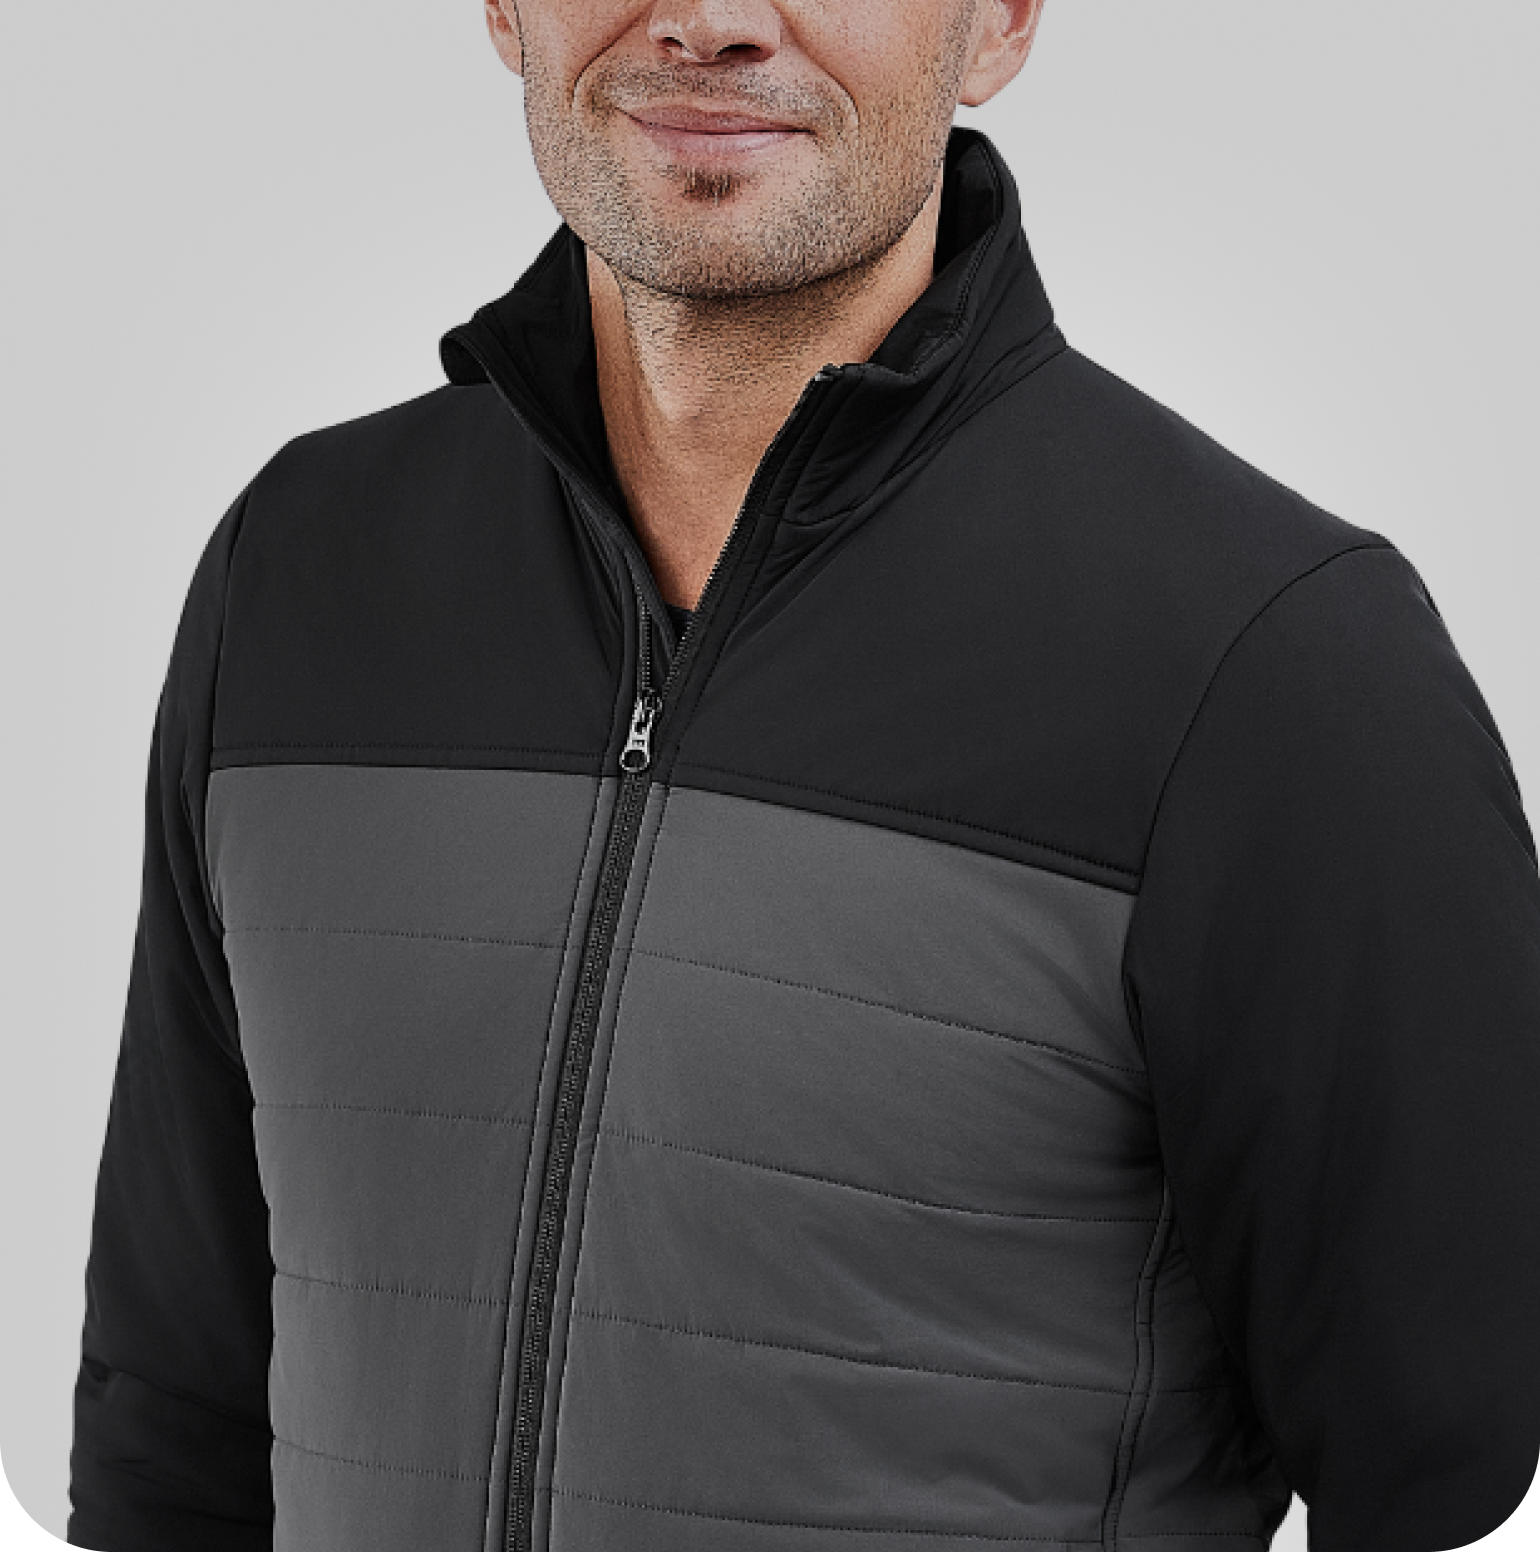
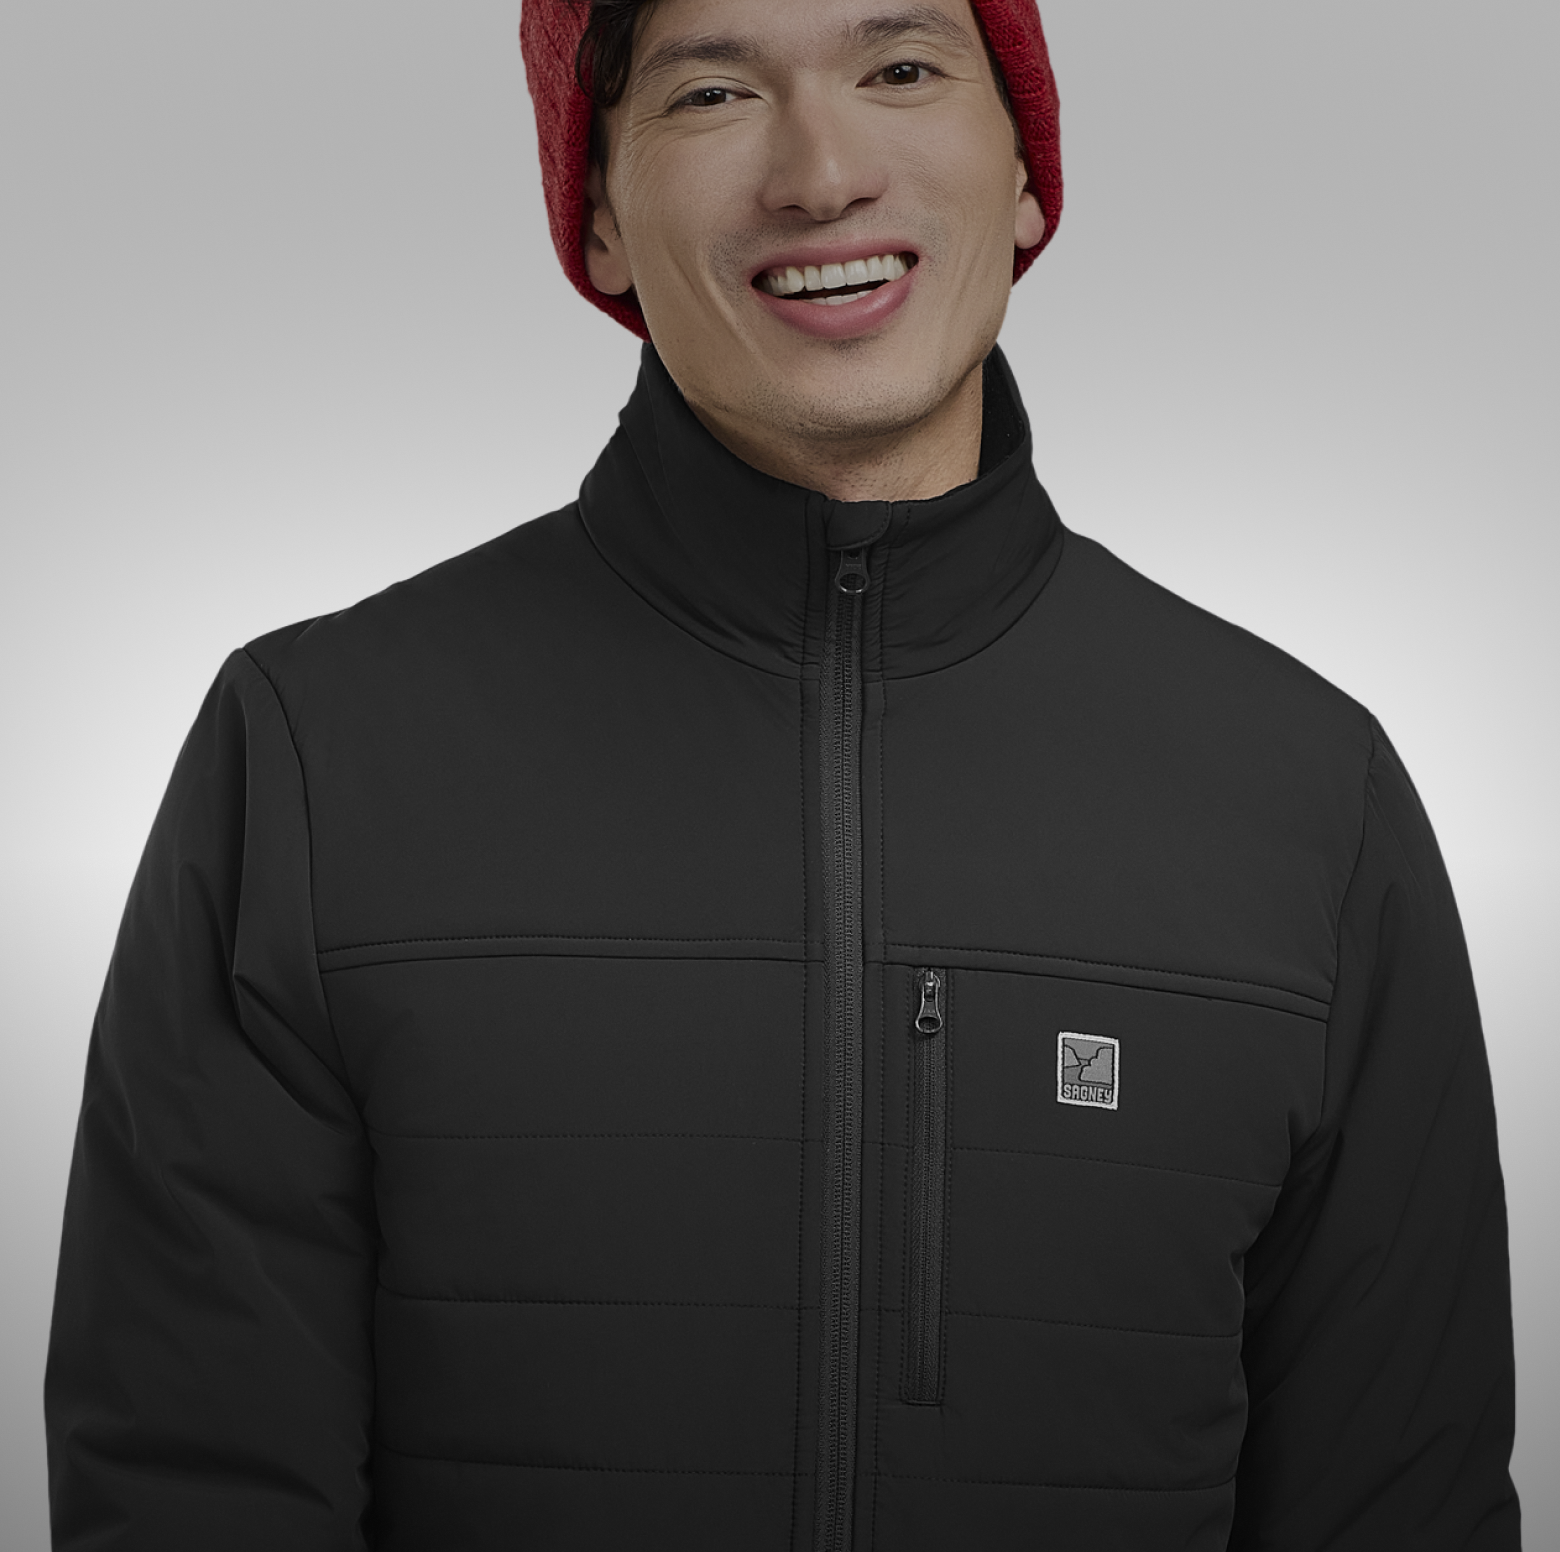
real product data added

diff --git a/app/Utils/brandsData.tsx b/app/Utils/brandsData.tsx
@@ -6,8 +6,8 @@ const brandsData = [
 		products: [
 			{
 				name: {
-					en: "Puffer Jacket",
-					fr: "Puffer Jacket(fr)",
+					en: "Heated jacket",
+					fr: "Manteau chauffant",
 				},
 				productImageUrl: {
 					men: require("../../assets/images/sagney-puffer-jacket-men.png"),
@@ -20,16 +20,30 @@ const brandsData = [
 			},
 			{
 				name: {
-					en: "Puffer Vest",
-					fr: "Puffer Vest(fr)",
+					en: "Heated vest",
+					fr: "Veste chauffante",
 				},
 				productImageUrl: {
-					men: require("../../assets/images/sagney-puffer-jacket-men.png"),
-					women: require("../../assets/images/sagney-puffer-jacket-women.png"),
+					men: require("../../assets/images/sagney-vest.png"),
+					women: require("../../assets/images/sagney-vest.png"),
 				},
 				headerImageUrl: {
-					men: require("../../assets/images/heatlover-puffer-jacket-model-men.png"),
-					women: require("../../assets/images/heatlover-puffer-jacket-model-women.png"),
+					men: require("../../assets/images/sagney-vest-men.png"),
+					women: require("../../assets/images/sagney-vest-women.png"),
+				},
+			},
+			{
+				name: {
+					en: "Heated short",
+					fr: "Short chauffant",
+				},
+				productImageUrl: {
+					men: require("../../assets/images/sagney-short-men.png"),
+					women: require("../../assets/images/sagney-short-women.png"),
+				},
+				headerImageUrl: {
+					men: require("../../assets/images/sagney-short-model-men.png"),
+					women: require("../../assets/images/sagney-short-model-women.png"),
 				},
 			},
 		],
@@ -37,14 +51,6 @@ const brandsData = [
 			en: "https://ewool.com/support",
 			fr: "https://ewool.com/fr-CA/assistance",
 		},
-	},
-	{
-		name: "Brand 2",
-		onBoardLogoUrl: require("../../assets/images/brand1-logo.png"),
-	},
-	{
-		name: "Brand 3",
-		onBoardLogoUrl: require("../../assets/images/brand2-logo.png"),
 	},
 ];
 

diff --git a/app/index.tsx b/app/index.tsx
@@ -299,7 +299,7 @@ const products = () => {
 										style={{
 											display: "flex",
 											flexDirection: "row",
-											alignItems: "center",
+											alignContent: "center",
 											gap: 4,
 											marginTop: 8,
 										}}

diff --git a/components/ui/CarouselSelector.jsx b/components/ui/CarouselSelector.jsx
@@ -25,7 +25,7 @@ export default function CarouselSelector({
 				style={{
 					overflow: "visible",
 				}}
-				loop={true}
+				loop={false}
 				autoPlay={false}
 				data={data}
 				scrollAnimationDuration={300}

diff --git a/app/device/[id].tsx b/app/device/[id].tsx
@@ -160,6 +160,7 @@ const index = () => {
 								width: 1,
 								borderWidth: 1,
 								borderColor: "#d4d4d4",
+								backgroundColor: "#d4d4d4",
 								height: "100%",
 								opacity: 0.8,
 							}}
